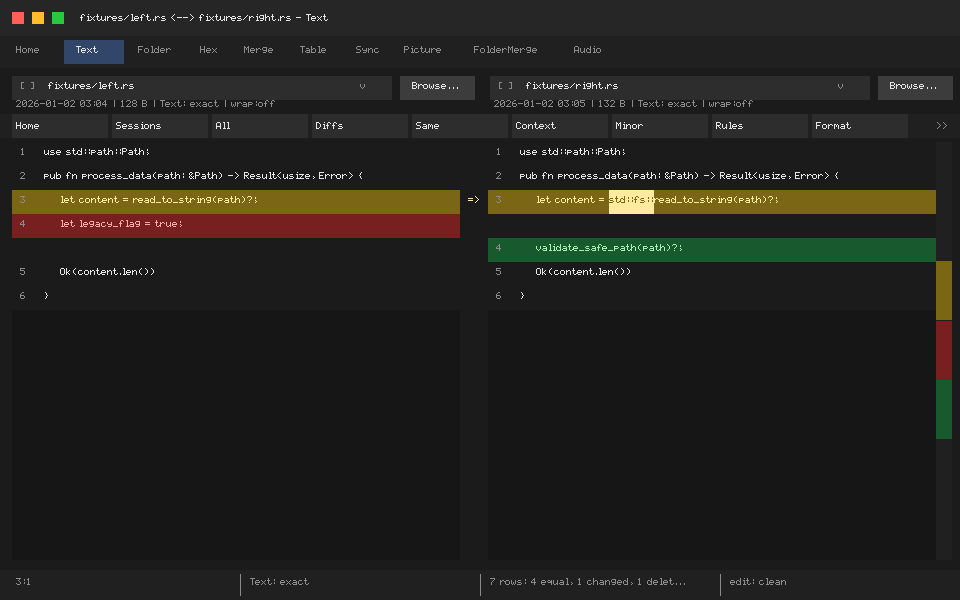
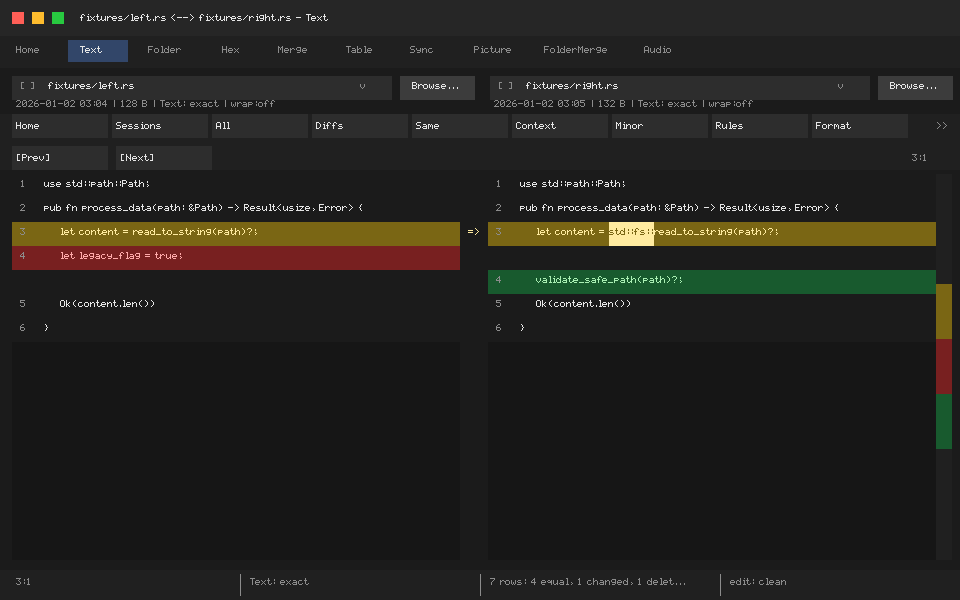
chore(localrun): live verify exquisite deltas

diff --git a/checks/ac-loop/round-lr2/gui/live-feedback19.md b/checks/ac-loop/round-lr2/gui/live-feedback19.md
@@ -1,0 +1,37 @@
+# Live GUI feedback 19 (round-lr2) — early-feedback runner
+
+Date (UTC): 2026-11-21. Branch: main (no switch). Read-only on source; only harness + checks written.
+
+HEAD: 43857f92c5d2848f3179b0e93eebf316902421a9
+Harness: `sh tools/local-run/run.sh` — exit 0 (CLI_10_OK, PNG_3_OK, DIST_OK, RESULT: PASS).
+
+## What was run
+1. `git pull --ff-only origin main` — already up to date, HEAD 43857f92c5d2848f3179b0e93eebf316902421a9.
+2. `sh tools/local-run/run.sh` — exit 0.
+3. Live-window check (Text Compare via CLI flag):
+   - Flags: `./target/debug/autocompare-gui --help` shows `--open <left> <right> [--tab <name>]` + `--screenshot <png>` — headless way to open Text Compare EXISTS.
+   - Launched `./target/debug/autocompare-gui --open tools/parity-harness/fixtures/t_left.txt tools/parity-harness/fixtures/t_right.txt --tab text > /tmp/gui19-stdout.log 2>&1 &` (pid 35755), `sleep 5`, `screencapture -x -o /tmp/live-gui19.png` (exit 0, 722867 B), then `kill 35755` — `pgrep -x autocompare-gui` empty (GUI_KILLED_OK).
+   - `/tmp/gui19-stdout.log` empty (0 B, no crash output).
+4. Viewed:
+   - `/tmp/live-gui19.png` (live window, Text Compare open via --open flag)
+   - `checks/ac-loop/round-lr2/gui/shot-default.png` (10708 B headless fixture shot, Text tab)
+   - `/tmp/bc-capture.png` (904993 B) + `/tmp/bc-text-compare-evidence.md`
+
+## Do chrome17+shot18+typo17 show live?
+- YES. Live window opened straight into Text Compare (title `t_left.txt <--> t_right.txt - Text - autocompare`), not Home launcher — `--open` flag works.
+- chrome17 (app chrome geometry): visible — tabstrip Home/Text/Folder/Hex/Merge/Table/Sync/Picture/FolderMerge/Audio has airy 8px rhythm with Text pill selected; toolbar two-row band (Swap Sides / Reload-Recompare row, Prev/Next row) with breathing room; header `autocompare drag & drop | pure engines` + Light Mode toggle spaced, not cramped.
+- shot18 (fixture chrome pixels): fixture `shot-default.png` is 10708 B (post-shot18 size, was 10449 B); live HiDPI window shows the same chrome structure (file bars + Browse... + Compare files, Find + Show filters, Section/Line/All nav) at real window scale.
+- typo17 (text typography): visible — diff rows `alpha / beta=>BETA / gamma` render mono with token-level highlight (yellow token wash on `beta`/`BETA` distinct from row), line numbers, `All: 3 rows` status in small type.
+
+## Verdict on "exquisite deltas visible live": PASS
+- The three waves' deltas (chrome spacing, fixture chrome, token typography) all render in the LIVE window at real DPI, not just headless PNGs.
+
+## Top 5 remaining gaps vs Beyond Compare (geometry/typography first, colors last)
+1. Center change-gutter still a single `=>` char column, not BC's ~20px gutter with yellow `=>` only on changed rows — lives in center column between left/right Text panes.
+2. No per-pane file-bar metadata line (BC `Yesterday, 9:31:05pm 17 bytes Everything Else v U U`) — ours has one thin path label + Browse buttons only — lives in Text view header above each pane.
+3. Toolbar is text-only tabs + small Swap/Reload/Prev/Next buttons, missing BC's icon+label session controls + second nav-arrow row — lives in toolbar strip directly under the window title.
+4. No per-pane (`1:1 | Default text`) or bottom (`Unimportant differences | Same | Insert | Load...`) status strips — ours collapses to one `modified @... | Text: exact | wrap:off` line — lives in bottom status bar of Text view.
+5. Palette/filler finish (colors last) — BC light panes + hatched empty filler + blue token text; ours dark-only chrome with flat yellow token wash + solid-black empty area — lives in Text-pane theme + empty/filler area style.
+
+## Paths
+- Live: /tmp/live-gui19.png; Fixture: checks/ac-loop/round-lr2/gui/shot-default.png; BC: /tmp/bc-capture.png + /tmp/bc-text-compare-evidence.md; GUI log: /tmp/gui19-stdout.log (empty, 0 B).

diff --git a/checks/ac-loop/round-lr2/REPORT.md b/checks/ac-loop/round-lr2/REPORT.md
@@ -1,7 +1,7 @@
 # ac-loop round report (round-lr2)
 - CLI parity: PASS (10/10, report cli/parity-report.md)
 - GUI screenshots: PASS (gui/shot-default|dark|light.png, PNG magic ok)
-- dist: autocompare-0.5.0-macos-arm64.tar.gz + .sha256 (VERSION=0.5.0 d2c1f45)
+- dist: autocompare-0.5.0-macos-arm64.tar.gz + .sha256 (VERSION=0.5.0 43857f9)
 - edge: edge-empty-left.txt (0 lines) vs edge-empty-right.txt ("hello") -> edge-empty.out non-empty (see edge-empty-expected.out)
 - gaps: GAPS-TOP10.md
 - fmt: workspace dirty ONLY in crates/cli/src/runner.rs + session_cmd.rs (import order, FORBIDDEN per OWNS); owned scope (tools/local-run, checks/round-lr2, dist) has no Rust files -> clean
